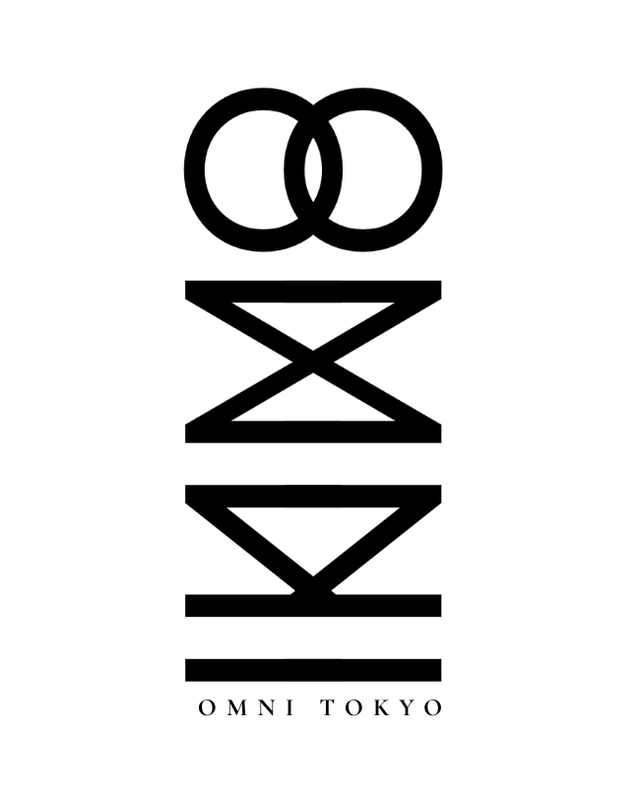
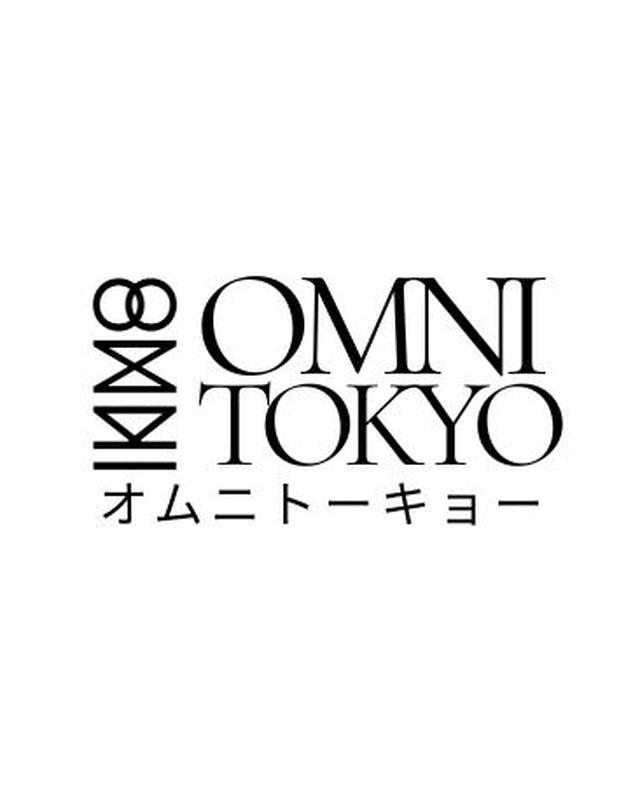
Add OMNI TOKYO official site link and mission copy to PROJECT section
- Replace "Coming soon" with the organization's mission statement and
  description, in both Japanese and English
- Link to the newly launched official site (omnitokyo.com)
- Recrop the OMNI TOKYO logo image from the updated official lockup

diff --git a/index.html b/index.html
@@ -325,8 +325,31 @@
               <span class="lang lang-en">The present of AI cinema,<br />from Tokyo to the world.</span>
             </p>
             <div class="body-copy">
-              <p class="project-coming-soon">Coming soon</p>
+              <div class="lang lang-jp">
+                <p>
+                  すべての人生には、<br />
+                  物語になる価値がある。<br />
+                  AIは手段であり、人間の感情が魂となる。まだ見られていない人間の物語を、映画の力で世界へ届ける。
+                </p>
+                <p>
+                  一般社団法人OMNI TOKYOは、AI映画の上映・教育・インクルーシブな創作の場づくり・国際交流を通じて、これまで表現の機会を持ちづらかった人々の物語を社会へ届けるための非営利の文化団体です。
+                </p>
+              </div>
+              <div class="lang lang-en">
+                <p>
+                  Every life<br />
+                  deserves to become a story.<br />
+                  AI is only the means. Human emotion is the soul. We bring untold human stories to the world through the power of cinema.
+                </p>
+                <p>
+                  OMNI TOKYO is a nonprofit cultural association that brings the stories of people who have long had limited opportunities for expression to society, through AI film screenings, education, inclusive spaces for creation, and international exchange.
+                </p>
+              </div>
             </div>
+            <a class="project-link" href="https://omnitokyo.com/" target="_blank" rel="noopener noreferrer">
+              <span>Visit OMNI TOKYO</span>
+              <i aria-hidden="true">↗</i>
+            </a>
           </div>
         </div>
       </section>

diff --git a/styles.css b/styles.css
@@ -919,11 +919,28 @@ body.is-en .project-statement {
   line-height: 1.4;
 }
 
-.project-coming-soon {
-  color: var(--muted);
+.project-link {
+  margin-top: 30px;
+  display: inline-flex;
+  align-items: center;
+  gap: 10px;
+  color: var(--ink);
   font: 500 11px/1 var(--ui);
-  letter-spacing: 0.15em;
+  letter-spacing: 0.14em;
   text-transform: uppercase;
+  text-decoration: none;
+  border-bottom: 1px solid var(--ink);
+  padding-bottom: 7px;
+  transition: opacity 180ms ease;
+}
+
+.project-link i {
+  font-style: normal;
+}
+
+.project-link:hover,
+.project-link:focus-visible {
+  opacity: 0.58;
 }
 
 .practice-section {
